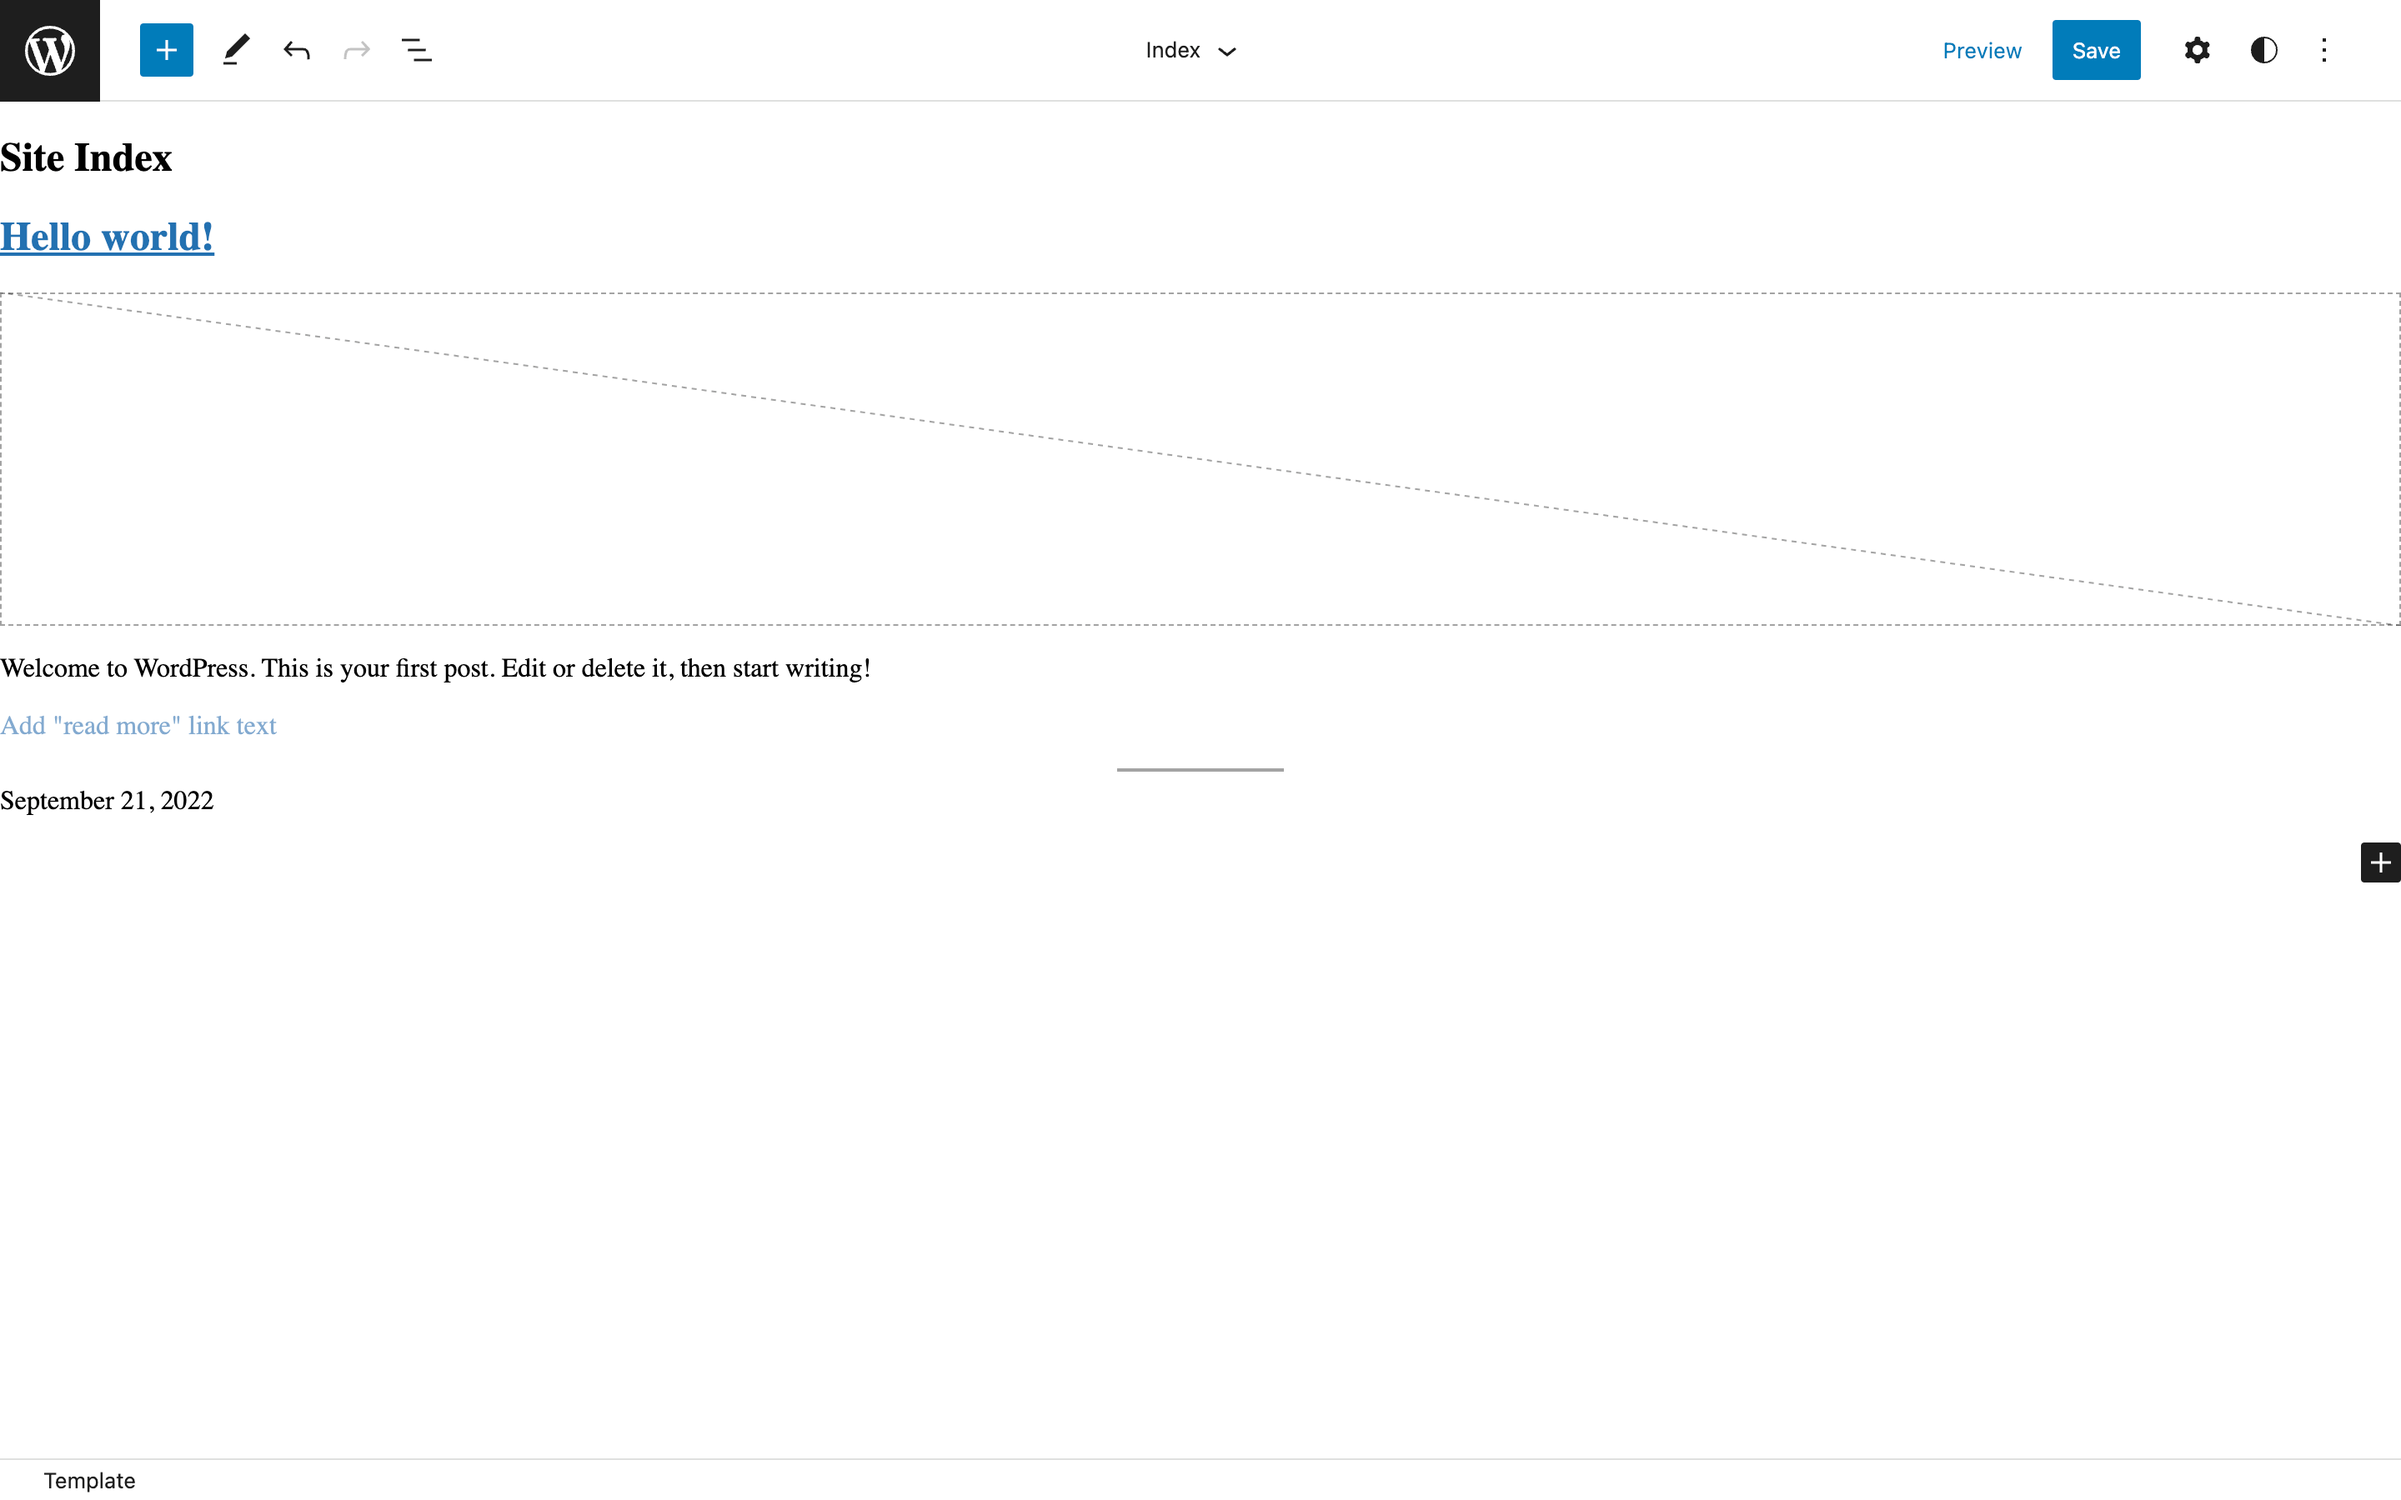
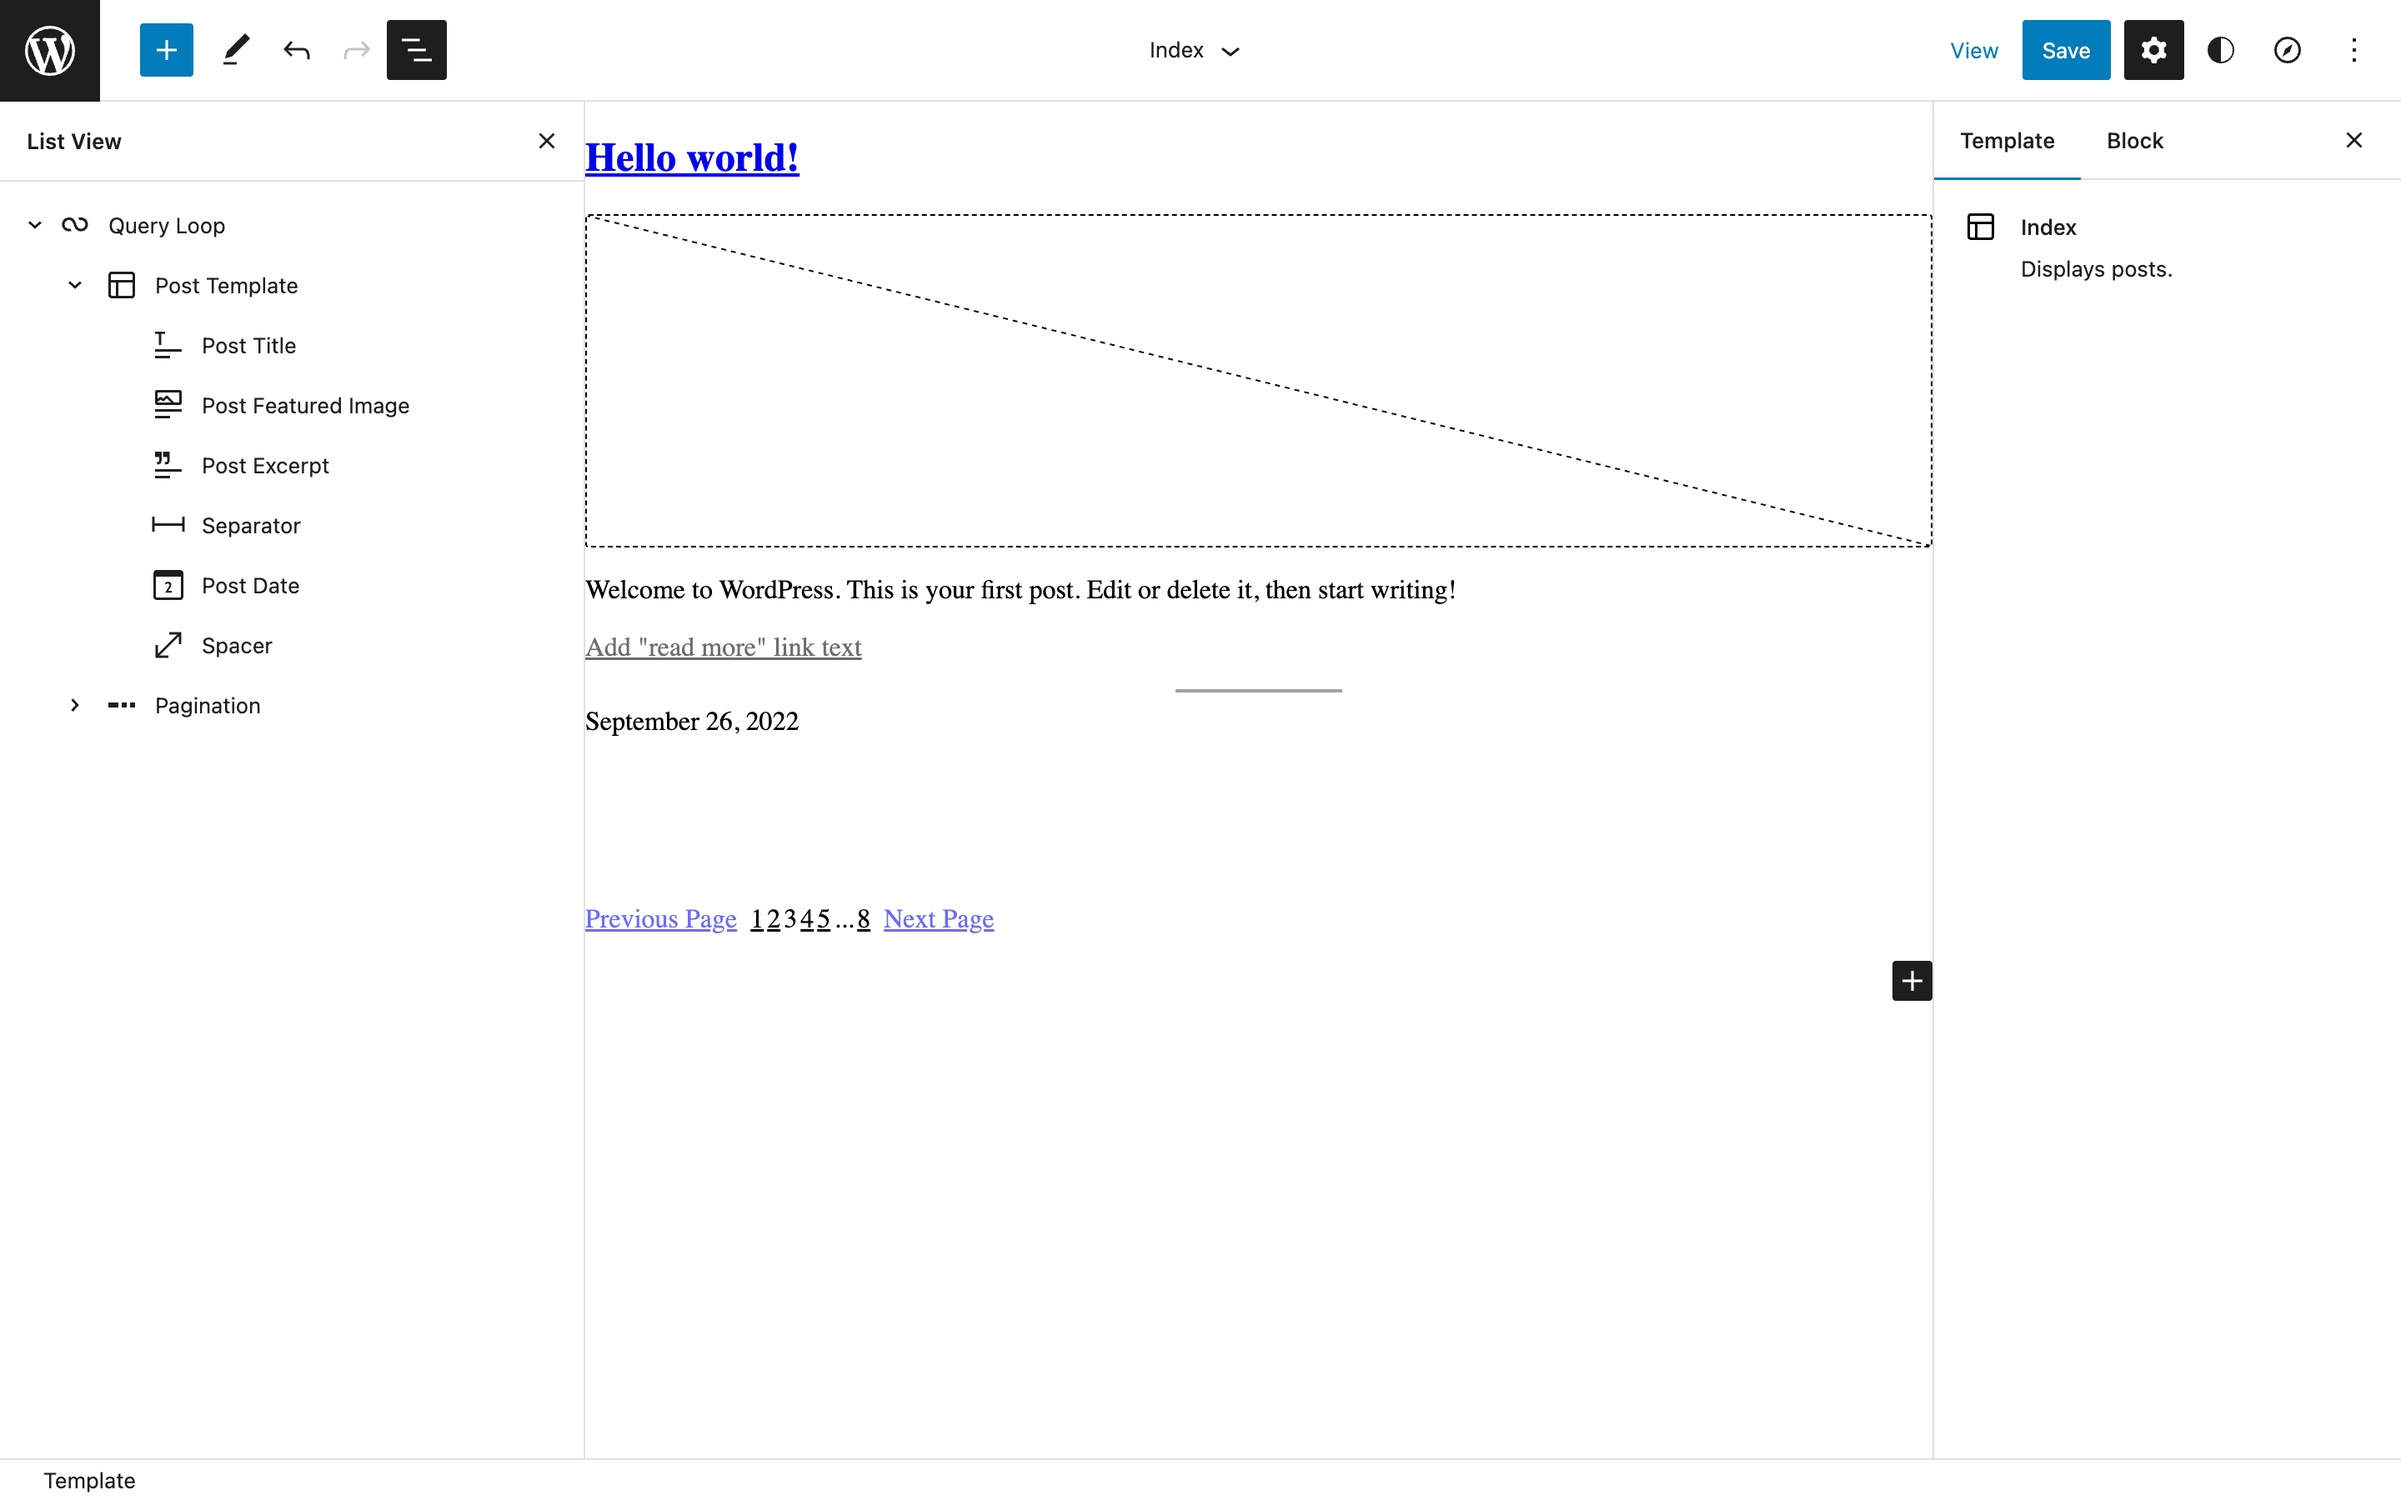
Updates to match tt3 theme base

diff --git a/module-01/02-Review-Templates.md b/module-01/02-Review-Templates.md
@@ -28,8 +28,16 @@ Start by navigating to Appearance -> Editor. You'll be presented with a blank ca
 
 As the index template is the default template that WordPress will load if it can't find a matching template file for the content being rendered, it's a good idea to add some content to this template. General best practice is to populate this template with a query loop, so that all posts on the site are displayed.
 
-> 1. Add a heading block, and give the template a heading
-> 2. Add a query loop block, and select the **Standard** pattern for the query loop.
+> **Note:** While editing your template, you can toggle the Site editor's List View to get a better overview of the template's structure, and select specific blocks.
+
+![Enabling the List View](/images/module-01/lesson-02/enabling-list-view.png)
+
+Go ahead and add a query loop to the template, the pagination block, and a spacer to allow a bit of space between the query loop and the pagination.
+
+> **Do:** 
+> 1. Add a query loop block, and select the **Standard** pattern for the query loop.
+> 2. Add a **Pagination** block inside the Query Loop, right at the bottom.
+> 3. Inside the Query Loop, select the **Post Template** block and add a **Spacer** block at the bottom.
 
 ![The index template with a header and query loop](/images/module-01/lesson-02/basic-index-template.png)
 
@@ -39,11 +47,7 @@ If you switch to the Code editor View, you'll be able to see the block markup fo
 > ![Enabling the Code editor](/images/module-01/lesson-02/editor-more-options.png)
 
 ```
-<!-- wp:heading -->
-<h2>Site Index</h2>
-<!-- /wp:heading -->
-
-<!-- wp:query {"queryId":9,"query":{"perPage":3,"pages":0,"offset":0,"postType":"post","order":"desc","orderBy":"date","author":"","search":"","exclude":[],"sticky":"","inherit":false}} -->
+<!-- wp:query {"queryId":31,"query":{"perPage":3,"pages":0,"offset":0,"postType":"post","order":"desc","orderBy":"date","author":"","search":"","exclude":[],"sticky":"","inherit":true}} -->
 <div class="wp-block-query"><!-- wp:post-template -->
 <!-- wp:post-title {"isLink":true} /-->
 
@@ -56,7 +60,19 @@ If you switch to the Code editor View, you'll be able to see the block markup fo
 <!-- /wp:separator -->
 
 <!-- wp:post-date /-->
-<!-- /wp:post-template --></div>
+
+<!-- wp:spacer -->
+<div style="height:100px" aria-hidden="true" class="wp-block-spacer"></div>
+<!-- /wp:spacer -->
+<!-- /wp:post-template -->
+
+<!-- wp:query-pagination -->
+<!-- wp:query-pagination-previous /-->
+
+<!-- wp:query-pagination-numbers /-->
+
+<!-- wp:query-pagination-next /-->
+<!-- /wp:query-pagination --></div>
 <!-- /wp:query -->
 ```
 
@@ -87,30 +103,37 @@ You'll be presented with a list of the templates in this theme, and a button to 
 The Editor will give you the option of creating a new template based on the primary templates, ranging from things like a Front Page to a 404 Page. 
 
 > Select the **Page** option, to create a new page template.
+> Select **All Pages** to create a template that will be used for all pages. (to be tested with 6.1)
 
-The page template will be created, and you'll be taken to the editor to add blocks to the template.
+The page template will be created, and you'll be taken to the editor to add blocks to the template. By default, WordPress will populate the new template with the content from the index template.
 
-Because a page in WordPress is merely a custom post type, you can use the Post Title, Post Featured Image, and Post Content blocks to render the title, featured image, and content of a page in the template.
+> **Do:** Delete the Query Loop from the new page template, so you have an empty page template
 
-> 1. Add a Post Title block to the page template.
-> 2. Add a Post Featured Image block to the page template.
-> 3. Add a Post Content block to the page template.
+Because a page in WordPress is merely a custom post type, you can use the Post Title and Post Content blocks to render the title and content of a page in the template. You can also use Group blocks to logically group specific blocks, based on the design.
+
+> **Do:**
+> 1. Add a **Group** block to the template.
+> 2. Add a **Post Content** block to the group.
+> 3. Add another **Group** block to the template, before the **Post Content** block.
+> 4. Add a **Post Title** block to the second **Group** block.
 
 Your final page template should look something like this:
 
-![Image of the page template with the post title, post featured image, and post content blocks](/images/module-01/lesson-02/page-template.png)
+![Image of the page template](/images/module-01/lesson-02/page-template.png)
 
 Now switch to the Code editor view, to see the block markup that makes up this page template
 
 ```html
-<!-- wp:post-title /-->
+<!-- wp:group {"layout":{"type":"constrained"}} -->
+<div class="wp-block-group"><!-- wp:group {"layout":{"type":"constrained"}} -->
+    <div class="wp-block-group"><!-- wp:post-title /--></div>
+    <!-- /wp:group -->
 
-<!-- wp:post-featured-image /-->
-
-<!-- wp:post-content /-->
+    <!-- wp:post-content /--></div>
+<!-- /wp:group -->
 ```
 
-Finally, remember to exit the Code editor view, before saving the template.
+Finally, remember to exit the Code editor view, and save the template.
 
 > Save this template now, so it's included when we export it later!
 

diff --git a/module-01/01-Review-Block-Theme-Basics.md b/module-01/01-Review-Block-Theme-Basics.md
@@ -4,14 +4,13 @@
 
 Let's start by reviewing the requirements for a block theme. This is the bare minimum you need to create a working block theme.
 
-> **Note:** 
-If this is the first time you are learning about block themes you might want to first check out the [Create a Block Theme (Low-Code) course](https://learn.wordpress.org/create-a-block-theme/).
+> **Note:** If this is the first time you are learning about block themes you might want to first check out the [Create a Block Theme (Low-Code) course](https://learn.wordpress.org/create-a-block-theme/).
 
 ## Requirements
 
 All themes, including block themes, reside in a directory in the `wp-content/themes` directory of your WordPress installation. If you take a look at the `wp-content/themes` directory of your WordPress installation you will see a number of directories, each containing a theme. The directory name of each theme is also known as the theme slug which is used to identify the theme in the WordPress admin.
 
-> To begin, create a new directory in your `themes` directory, and give the directory a unique name for your new theme.
+> **Do:** To begin create a new directory in your `themes` directory, and give the directory a unique name for your new theme.
 
 ![Image of themes directory with 'new-block-theme' directory](images/lesson-01/new-block-theme.png)
 
@@ -47,7 +46,7 @@ Use it to make something cool, have fun, and share what you've learned with othe
 
 The minimum required fields for the header comment are `Theme Name`, but it's useful to add data for `Theme URI`, `Author`, and `Author UR`. 
 
-> Go ahead and create a new style.css file to your theme, and add the following fields as the header comment, replacing the field values with your own information:
+> **Do:** Go ahead and create a new style.css file to your theme, and add the following fields as the header comment, replacing the field values with your own information:
 
 ```css
 /*
@@ -63,7 +62,7 @@ Text Domain: new-block-theme
 
 The `index.php` file is the theme template file that WordPress will use by default, if it can't find a matching template file for the content being rendered. For the purposes of block themes, this file can be left empty, and just include the PHP opening tag. Some developers like to add a comment to the file to indicate that it is intentionally left blank.
 
-> Create your theme's index.php file, and add the following code:
+> **Do:** Create your theme's index.php file, and add the following code:
 
 ```php
 <?php
@@ -79,12 +78,19 @@ Block themes require one additional file, and `index.html` template. This file n
 
 ### theme.json
 
-Finally, a block theme needs a theme.json file. This file handles the global settings and styles for a block theme. While it's not required to add any settings or styles to the theme.json file when starting a new block theme, it's useful to start by setting the theme.json "version", and creating empty fields for the "settings" and "styles".
+Finally, a block theme needs a theme.json file. This file handles the global settings and styles for a block theme. This file is not required for a block theme to be active on a WordPress site, but for development purposes, it's extremely useufl to create it early on. 
 
-> Create your theme's theme.json file in the root of the theme directory, and add the following code:
+It's not a requirement to add any settings or styles to the theme.json file when starting a new block theme. 
+
+However, it is useful to start by including the JSON schema, as well as setting the theme.json "version", and creating empty fields for the "settings" and "styles". 
+
+> **Note:** The JSON schema is used by code editors to provide things like tooltips, autocomplete, and validation while editing theme.json.
+
+> **Do:** Create your theme's theme.json file in the root of the theme directory, and add the following code:
 
 ```json
 {
+  "$schema": "https://schemas.wp.org/trunk/theme.json",
   "version": 2,
   "settings": {
   },
@@ -97,7 +103,7 @@ Once you've added these required files, you are ready to start developing your b
 
 ![Minimum Theme Requirements](/images/module-01/lesson-01/directory-structure.png)
 
-> For the rest of this course, you'll be working in your new theme, so go ahead and activate it now from the Appearance -> Themes dashboard page.
+> **Note:** For the rest of this course, you'll be working in your new theme, so go ahead and activate it now from the Appearance -> Themes dashboard page.
 
 ![Image of new block theme active](/images/module-01/lesson-01/new-block-theme-active.png)
 

diff --git a/module-01/03-Review-Template-Parts.md b/module-01/03-Review-Template-Parts.md
@@ -28,20 +28,39 @@ Once the template part is created, you'll be taken straight to the new template 
 
 ![Editing the header template part](/images/module-01/lesson-03/editor-edit-header-template-part.png)
 
-Now you can begin designing your header template part.
+Now you can begin designing your header template part. You can use Group blocks and Row blocks to group and align elements in the template part.
 
-> 1. Add a Column block, with a 3 column layout
-> 2. Add a Site Title block to the first column
-> 3. Add a Site Logo block to the second column
-> 4. Add a Navigation block to the third column
+> **Do:** 
+> 1. Add a **Group** block.
+> 2. Inside the **Group** block, add a **Row** block.
+> 3. Inside the **Row** block, add a **Site Title** block.
+> 4. After the **Site Title** block, add a **Navigation** block.
 
 You should end up with a template part that looks something like this.
 
 ![Header template part content](/images/module-01/lesson-03/editor-header-template-part-content.png)
 
+At this point you probably agree that it would be idea if the navigation was aligned to the right. Fortunately you can achieve this by changing the **Justification** setting on the **Row** block. 
+
+> **Do:** 
+> Select the **Row** block, and change the **Justification** setting to **Space between items**.
+
+![Header template part content 2](/images/module-01/lesson-03/editor-header-template-part-content-space.png)
+
 Save the template part. You can now use this template part in your page template.
 
+> **Do:**
 > Now create a footer template part for your theme, and add some content of your own.
+> 1. Add a **Group** block.
+> 2. Add a **Row** block to the **Group** block.
+> 3. Add the **Site Title** block to the **Row** block.
+> 4. Add a **Paragraph** block next to the **Site Title** block with the text "Proudly powered by WordPress"
+> 5. Add a link to the word WordPress in the **Paragraph** block that links to `https://wordpress.org/`.
+> 6. Change the **Justification** setting on the **Row** block to **Space between items**.
+
+![Footer template part content](/images/module-01/lesson-03/editor-footer-template-part-content.png)
+
+Make sure to save the footer template before moving on.
 
 ## Using Template Parts in Templates
 
@@ -49,6 +68,7 @@ Now that you've created a header and footer template part, you will want to use 
 
 Navigate back to your list of templates, and click on the index template to edit it. Then add the header and footer template parts to the template. 
 
+> **Do:**
 > 1. Click on the Block Inserter, and search for the **Template Part** block
 > 2. Add the template part block to your template, and move it into the desired location
 > 2. Click the **Choose** button in the template part block to choose the template part
